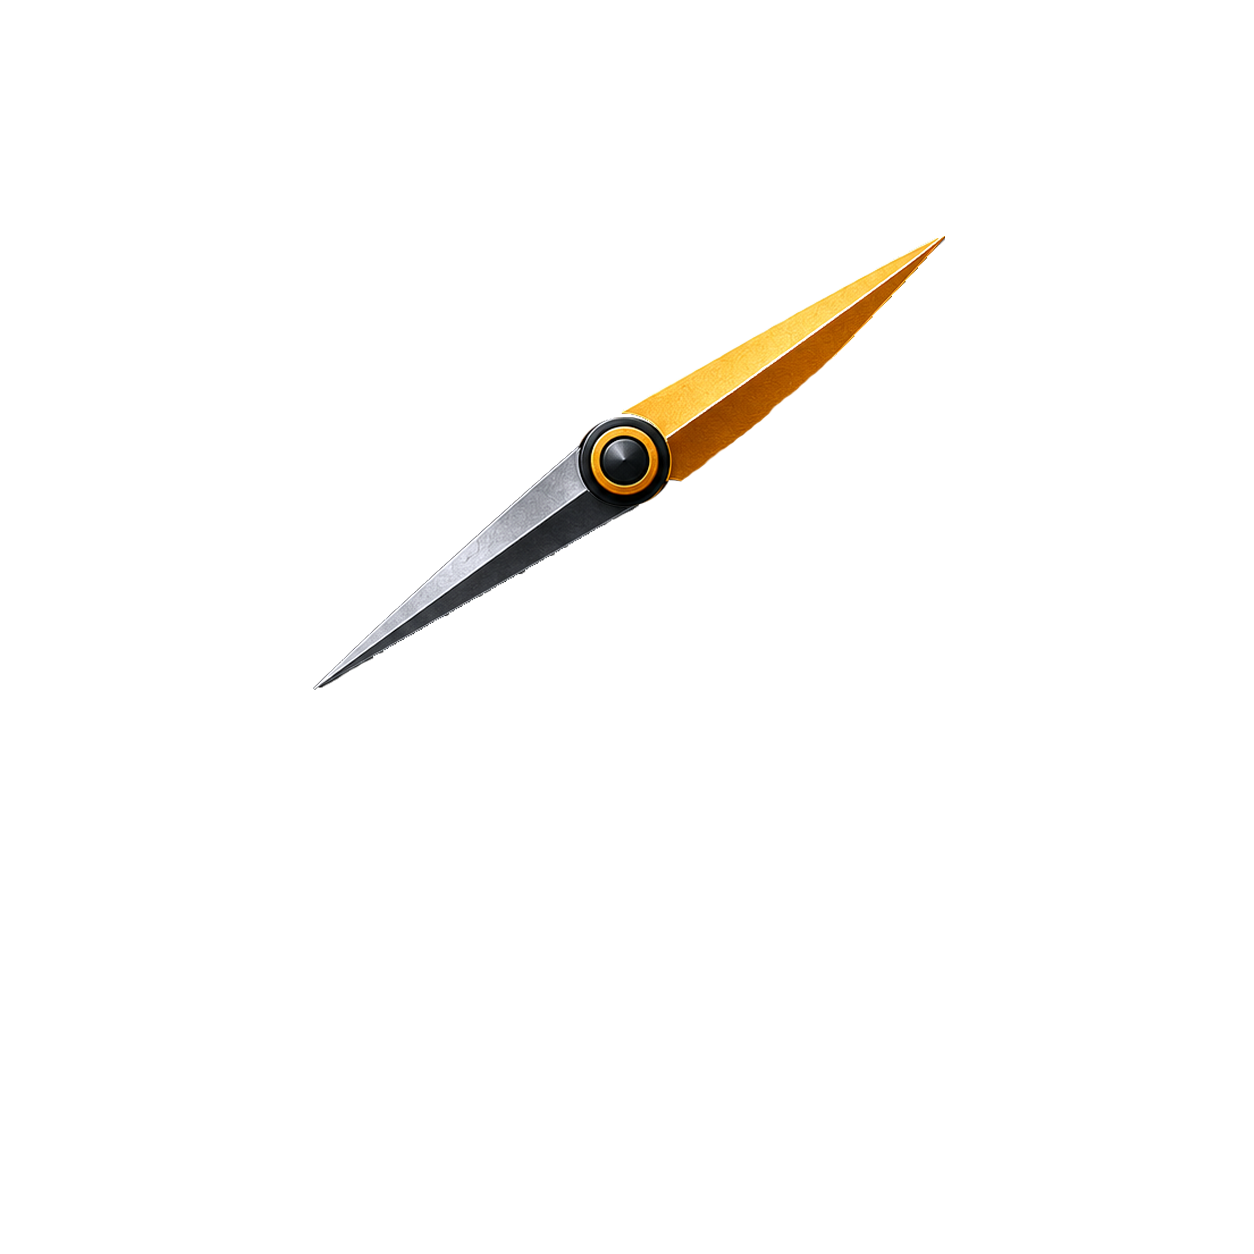
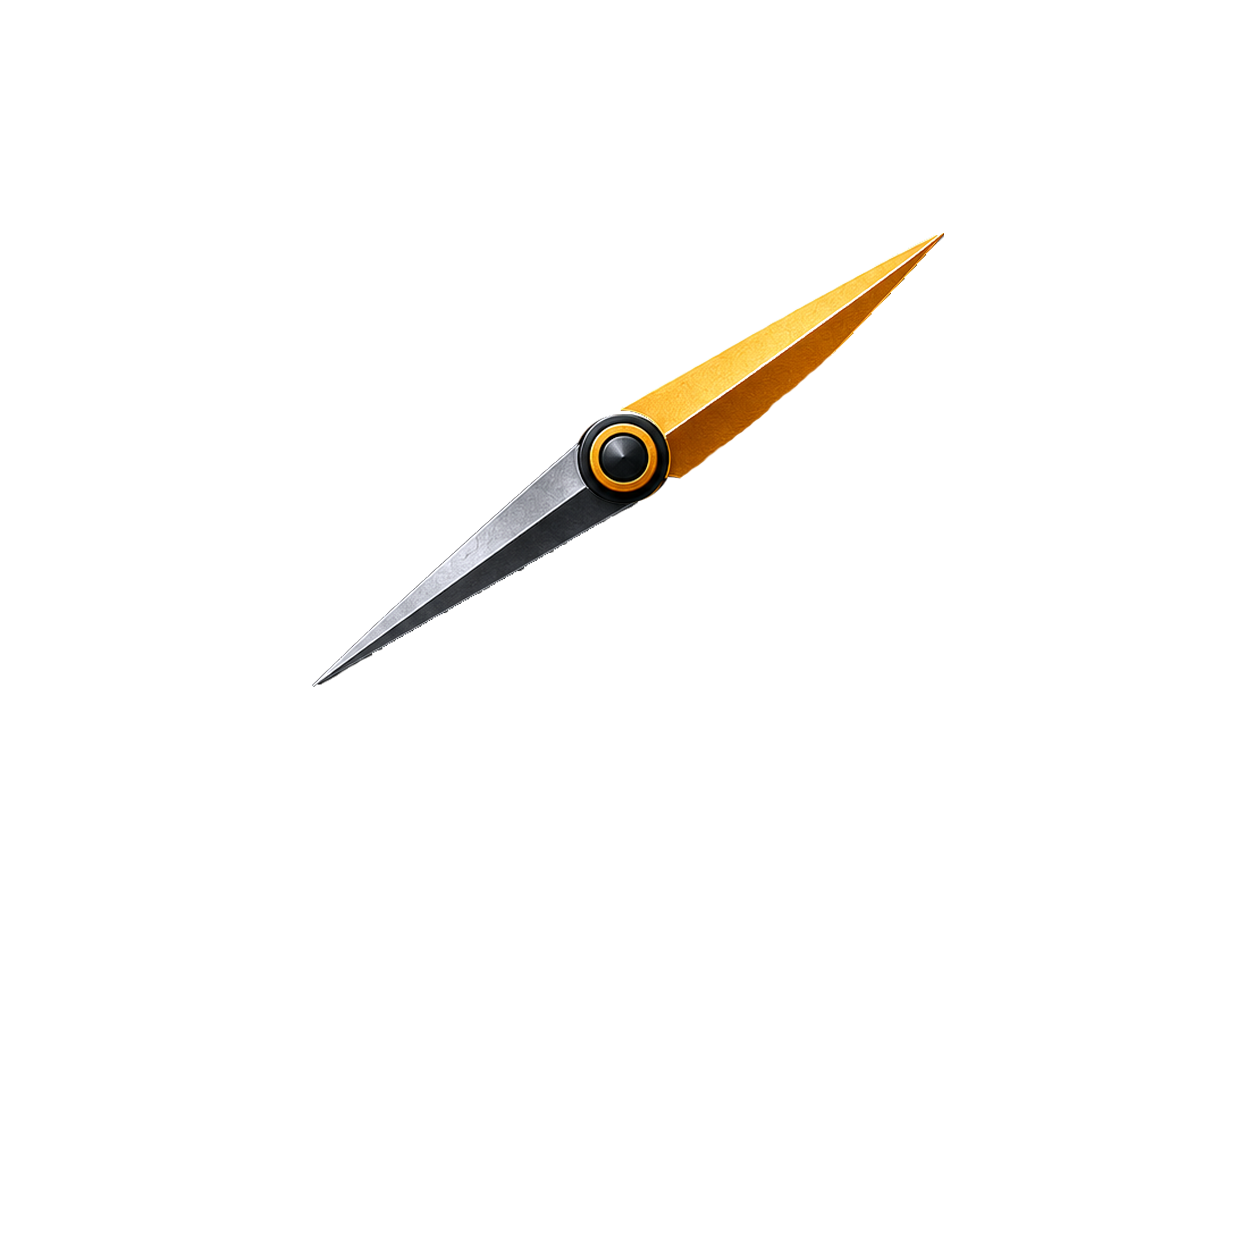
V7 Needle realign

Changed region(s): [[0.2799, 0.1866, 0.7464, 0.5287], [0.2488, 0.5287, 0.2799, 0.5598]]

diff --git a/index.html b/index.html
@@ -9,7 +9,7 @@
 <style>
 :root{--bg:#040b13;--sidebar:#050c14;--panel:#07121d;--panel2:#091724;--line:#1d3445;--text:#eef5fb;--muted:#91a0ad;--green:#43d13b;--amber:#ffb300;--red:#ff3b3b;--blue:#1da1f2;--gold:#f5a800}
 *{box-sizing:border-box}html,body{margin:0;min-height:100%;background:radial-gradient(circle at 80% 0,#0b1c2b 0,#040b13 46%);color:var(--text);font-family:-apple-system,BlinkMacSystemFont,"Segoe UI",Roboto,Arial,sans-serif}button{font:inherit}
-.app{display:grid;grid-template-columns:220px minmax(0,1fr);min-height:100vh}.sidebar{position:sticky;top:0;height:100vh;background:linear-gradient(180deg,#06101a,#03080d);border-right:1px solid #132637;padding:16px 0;display:flex;flex-direction:column}.logo-wrap{position:relative;text-align:center;padding:4px 14px 20px}.logo-stage{position:relative;width:190px;max-width:100%;margin:auto;aspect-ratio:1/1}.logo{position:absolute;inset:0;width:100%;height:100%;object-fit:contain;filter:drop-shadow(0 7px 24px #000)}.logo-needle{position:absolute;inset:0;width:100%;height:100%;object-fit:contain;pointer-events:none;transform-origin:50% 40.72%;transform:rotate(0deg);will-change:transform}.logo-wrap.refreshing .logo-needle{animation:compassSpin .82s linear infinite}@keyframes compassSpin{from{transform:rotate(0deg)}to{transform:rotate(360deg)}}.nav{display:grid;gap:2px}.nav-item{padding:13px 20px;color:#b8c3cc;border-left:3px solid transparent;font-size:14px}.nav-item.active{color:var(--gold);background:#0a1722;border-left-color:var(--gold);font-weight:800}.nav-item span{display:inline-block;width:25px}.side-bottom{margin-top:auto;padding:20px;color:#768691;font-size:11px}.side-bottom strong{display:block;color:var(--gold);font-size:13px;margin-bottom:8px}.side-refresh{width:100%;margin:0 0 12px;padding:10px;border-radius:8px;border:1px solid #355064;background:#0b1b28;color:#fff;font-weight:800;cursor:pointer}.side-refresh:hover{border-color:var(--gold);color:var(--gold)}.side-refresh:disabled{opacity:.6;cursor:wait}
+.app{display:grid;grid-template-columns:220px minmax(0,1fr);min-height:100vh}.sidebar{position:sticky;top:0;height:100vh;background:linear-gradient(180deg,#06101a,#03080d);border-right:1px solid #132637;padding:16px 0;display:flex;flex-direction:column}.logo-wrap{position:relative;text-align:center;padding:4px 14px 20px}.logo-stage{position:relative;width:190px;max-width:100%;margin:auto;aspect-ratio:1/1}.logo{position:absolute;inset:0;width:100%;height:100%;object-fit:contain;filter:drop-shadow(0 7px 24px #000)}.logo-needle{position:absolute;inset:0;width:100%;height:100%;object-fit:contain;pointer-events:none;transform-origin:49.64% 36.48%;transform:rotate(0deg);will-change:transform}.logo-wrap.refreshing .logo-needle{animation:compassSpin .82s linear infinite}@keyframes compassSpin{from{transform:rotate(0deg)}to{transform:rotate(360deg)}}.nav{display:grid;gap:2px}.nav-item{padding:13px 20px;color:#b8c3cc;border-left:3px solid transparent;font-size:14px}.nav-item.active{color:var(--gold);background:#0a1722;border-left-color:var(--gold);font-weight:800}.nav-item span{display:inline-block;width:25px}.side-bottom{margin-top:auto;padding:20px;color:#768691;font-size:11px}.side-bottom strong{display:block;color:var(--gold);font-size:13px;margin-bottom:8px}.side-refresh{width:100%;margin:0 0 12px;padding:10px;border-radius:8px;border:1px solid #355064;background:#0b1b28;color:#fff;font-weight:800;cursor:pointer}.side-refresh:hover{border-color:var(--gold);color:var(--gold)}.side-refresh:disabled{opacity:.6;cursor:wait}
 .main{padding:16px 18px 28px;min-width:0}.topbar{display:flex;justify-content:space-between;gap:16px;align-items:flex-start;margin-bottom:12px}.title{font-size:24px;font-weight:900;letter-spacing:.01em}.toptools{display:flex;align-items:center;gap:12px}.currency-label{font-size:11px;color:var(--muted)}.toggle{display:flex;border:1px solid #364352;border-radius:999px;overflow:hidden;background:#07101a}.toggle button{border:0;padding:8px 16px;background:transparent;color:#c2c9cf;font-weight:800}.toggle button.active{background:linear-gradient(#d98f00,#8f5c00);color:white;box-shadow:inset 0 0 0 1px #ffc233}.updated{font-size:11px;color:#bac5cc;line-height:1.35;padding-left:12px;border-left:1px solid #2a3844}.live-dot{width:11px;height:11px;border-radius:50%;background:var(--green);box-shadow:0 0 12px #43d13b88}
 .dashboard{display:grid;grid-template-columns:repeat(12,minmax(0,1fr));gap:10px}.card{background:linear-gradient(180deg,#091722,#06111b);border:1px solid var(--line);border-radius:11px;padding:13px;min-width:0;box-shadow:0 10px 25px #0003}.card h3{font-size:13px;margin:0 0 10px;letter-spacing:.02em}.muted{color:var(--muted)}.small{font-size:11px;color:var(--muted);line-height:1.45}.c-snapshot{grid-column:span 3}.c-research{grid-column:span 2}.c-regime{grid-column:span 2}.c-bottom{grid-column:span 2}.c-peak{grid-column:span 3}.c-price{grid-column:span 5}.c-fear{grid-column:span 2}.c-stable{grid-column:span 2}.c-etf{grid-column:span 3}.c-liquidity{grid-column:span 5}.c-regscores{grid-column:span 3}.c-summary{grid-column:span 4}.c-events{grid-column:span 8}.c-news{grid-column:span 4}
 .signal-counts{display:grid;grid-template-columns:repeat(3,1fr);text-align:center;border-bottom:1px solid #172b3a;padding-bottom:11px}.signal-counts strong{display:block;font-size:28px}.pos{color:var(--green)!important}.neu{color:var(--amber)!important}.neg{color:var(--red)!important}.overall{display:flex;justify-content:center;align-items:center;gap:12px;margin-top:14px;font-size:20px;font-weight:900}.animal{font-size:38px;line-height:1}.big-score{font-size:52px;font-weight:900;line-height:1}.score-denom{font-size:22px;color:#7f8c96}.score-sub{font-size:15px;font-weight:900;margin-top:8px}.confidence{border-top:1px solid #172b3a;padding-top:10px;margin-top:12px;font-size:11px}.regime-wrap{display:flex;align-items:center;gap:10px;margin:10px 0}.regime-title{font-size:18px;font-weight:900}.regime-points{font-size:12px;line-height:1.7}.regime-score{display:inline-block;padding:6px 14px;border-radius:6px;background:#143e1c;font-size:17px;font-weight:900;margin-top:4px}.probability{font-size:46px;font-weight:900;line-height:1.05;text-align:center}.forecast-range{text-align:center;font-size:16px;font-weight:800;margin:8px 0 4px}.forecast-price{text-align:center;font-size:17px;color:#fff;font-weight:900;margin-top:7px}.scenario-mini{margin-top:9px;border-top:1px solid #172b3a;padding-top:8px;display:grid;gap:5px;font-size:10px}.scenario-mini div{display:flex;justify-content:space-between;gap:8px}.delta{text-align:center;font-size:11px;margin-top:10px}

diff --git a/service-worker.js b/service-worker.js
@@ -1,4 +1,4 @@
-const CACHE='btc-cycle-compass-v7-animated-logo-1';
+const CACHE='btc-cycle-compass-v7-animated-logo-2';
 const ASSETS=['./','./index.html','./manifest.json','./bitcoin-compass-logo.png','./bitcoin-compass-base.png','./bitcoin-compass-needle.png','./data/live.json'];
 self.addEventListener('install',e=>{self.skipWaiting();e.waitUntil(caches.open(CACHE).then(c=>c.addAll(ASSETS)))});
 self.addEventListener('activate',e=>e.waitUntil(Promise.all([clients.claim(),caches.keys().then(keys=>Promise.all(keys.filter(k=>k!==CACHE).map(k=>caches.delete(k))))])));